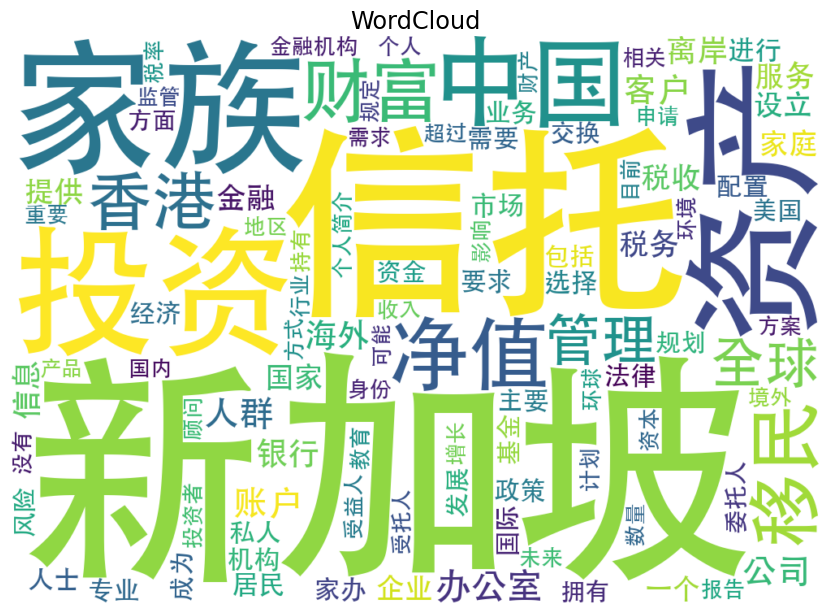
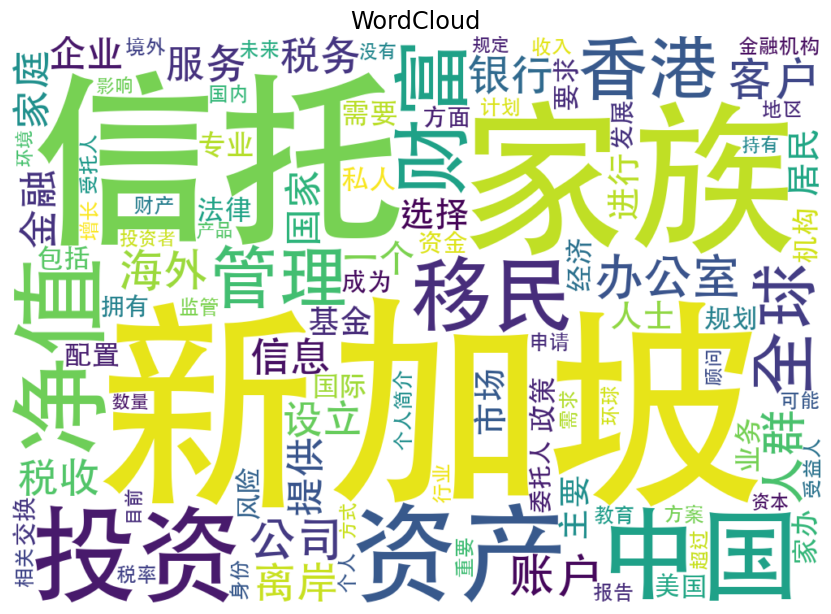
Change back to the top 100 network

diff --git a/_site/Market.html b/_site/Market.html
@@ -276,7 +276,7 @@ Why choose spider instead of survey
 <section id="implementation-building-the-spider" class="level2">
 <h2 class="anchored" data-anchor-id="implementation-building-the-spider">Implementation: Building the Spider</h2>
 <p>We implemented a Python-based web crawler using the SerpAPI platform to scrape real-time search results. The following code initializes the necessary libraries and parameters used in the process.</p>
-<div id="7954a680" class="cell" data-execution_count="2">
+<div id="ecf98cea" class="cell" data-execution_count="1">
 <details class="code-fold">
 <summary>Click to view code</summary>
 <div class="sourceCode cell-code" id="cb1"><pre class="sourceCode python code-with-copy"><code class="sourceCode python"><span id="cb1-1"><a href="#cb1-1" aria-hidden="true" tabindex="-1"></a><span class="im">import</span> requests</span>
@@ -298,7 +298,7 @@ Why choose spider instead of survey
 <section id="targeted-search-keywords" class="level2">
 <h2 class="anchored" data-anchor-id="targeted-search-keywords">Targeted Search Keywords</h2>
 <p>The keywords used by the crawler are carefully chosen to reflect real user concerns about wealth migration. These terms guide the spider to relevant discussions, articles, and posts.</p>
-<div id="2d6356fb" class="cell" data-execution_count="3">
+<div id="540fed03" class="cell" data-execution_count="2">
 <details class="code-fold">
 <summary>Click to view code</summary>
 <div class="sourceCode cell-code" id="cb2"><pre class="sourceCode python code-with-copy"><code class="sourceCode python"><span id="cb2-1"><a href="#cb2-1" aria-hidden="true" tabindex="-1"></a>keywords <span class="op">=</span> [</span>
@@ -313,7 +313,7 @@ Why choose spider instead of survey
 <span id="cb2-10"><a href="#cb2-10" aria-hidden="true" tabindex="-1"></a>]</span></code><button title="Copy to Clipboard" class="code-copy-button"><i class="bi"></i></button></pre></div>
 </details>
 </div>
-<div id="13390b51" class="cell" data-execution_count="4">
+<div id="6545be23" class="cell" data-execution_count="3">
 <details class="code-fold">
 <summary>Click to view code</summary>
 <div class="sourceCode cell-code" id="cb3"><pre class="sourceCode python code-with-copy"><code class="sourceCode python"><span id="cb3-1"><a href="#cb3-1" aria-hidden="true" tabindex="-1"></a><span class="kw">def</span> serpapi_search(query, api_key, num<span class="op">=</span><span class="dv">20</span>, start<span class="op">=</span><span class="dv">0</span>):</span>
@@ -352,7 +352,7 @@ Why choose spider instead of survey
 <span id="cb3-34"><a href="#cb3-34" aria-hidden="true" tabindex="-1"></a>    <span class="cf">return</span> extracted_results</span></code><button title="Copy to Clipboard" class="code-copy-button"><i class="bi"></i></button></pre></div>
 </details>
 </div>
-<div id="d751cba0" class="cell" data-execution_count="5">
+<div id="54e0104a" class="cell" data-execution_count="4">
 <details class="code-fold">
 <summary>Click to view code</summary>
 <div class="sourceCode cell-code" id="cb4"><pre class="sourceCode python code-with-copy"><code class="sourceCode python"><span id="cb4-1"><a href="#cb4-1" aria-hidden="true" tabindex="-1"></a><span class="kw">def</span> search_keyword_with_pagination(keyword, api_key, total_results<span class="op">=</span><span class="dv">20</span>):</span>
@@ -374,7 +374,7 @@ Why choose spider instead of survey
 <span id="cb4-17"><a href="#cb4-17" aria-hidden="true" tabindex="-1"></a>    <span class="cf">return</span> all_results</span></code><button title="Copy to Clipboard" class="code-copy-button"><i class="bi"></i></button></pre></div>
 </details>
 </div>
-<div id="80080f6a" class="cell" data-execution_count="6">
+<div id="b6ac34bf" class="cell" data-execution_count="5">
 <details class="code-fold">
 <summary>Click to view code</summary>
 <div class="sourceCode cell-code" id="cb5"><pre class="sourceCode python code-with-copy"><code class="sourceCode python"><span id="cb5-1"><a href="#cb5-1" aria-hidden="true" tabindex="-1"></a><span class="kw">def</span> main():</span>
@@ -407,7 +407,7 @@ Why choose spider instead of survey
 <section id="data-collection-process" class="level2">
 <h2 class="anchored" data-anchor-id="data-collection-process">Data Collection Process</h2>
 <p>The crawler iterates through each keyword, sends queries to SerpAPI, extracts content (including titles, URLs, and full texts), and saves them into a structured format for further processing. This automation ensures scalability and coverage.</p>
-<div id="79b0a5e5" class="cell" data-execution_count="7">
+<div id="16e30347" class="cell" data-execution_count="6">
 <details class="code-fold">
 <summary>Click to view code</summary>
 <div class="sourceCode cell-code" id="cb6"><pre class="sourceCode python code-with-copy"><code class="sourceCode python"><span id="cb6-1"><a href="#cb6-1" aria-hidden="true" tabindex="-1"></a><span class="cf">if</span> search_results:</span>
@@ -451,7 +451,7 @@ Why choose spider instead of survey
 <section id="data-transformation" class="level2">
 <h2 class="anchored" data-anchor-id="data-transformation">Data Transformation</h2>
 <p>Once raw JSON responses are collected, we convert them into a tabular format using <code>pandas</code>. This step prepares the dataset for text cleaning and analysis.</p>
-<div id="13eb1ace" class="cell" data-execution_count="8">
+<div id="5ebc373a" class="cell" data-execution_count="7">
 <details class="code-fold">
 <summary>Click to view code</summary>
 <div class="sourceCode cell-code" id="cb7"><pre class="sourceCode python code-with-copy"><code class="sourceCode python"><span id="cb7-1"><a href="#cb7-1" aria-hidden="true" tabindex="-1"></a><span class="im">from</span> bs4 <span class="im">import</span> BeautifulSoup</span>
@@ -490,7 +490,7 @@ Why choose spider instead of survey
 </section>
 <section id="data-clean" class="level2">
 <h2 class="anchored" data-anchor-id="data-clean"><strong>1.3 Data Clean</strong></h2>
-<div id="d5a90fa7" class="cell" data-execution_count="9">
+<div id="fc9c1de6" class="cell" data-execution_count="8">
 <details class="code-fold">
 <summary>Click to view code</summary>
 <div class="sourceCode cell-code" id="cb8"><pre class="sourceCode python code-with-copy"><code class="sourceCode python"><span id="cb8-1"><a href="#cb8-1" aria-hidden="true" tabindex="-1"></a><span class="co"># 输入输出路径</span></span>
@@ -531,7 +531,7 @@ Why choose spider instead of survey
 <pre><code>清洗完成，已保存为：/Applications/SMU/Great Eastern/Personal Project/RFM Project/Dataset/search_results_cleaned.xlsx</code></pre>
 </div>
 </div>
-<div id="80722ba9" class="cell" data-execution_count="10">
+<div id="cca8ec88" class="cell" data-execution_count="9">
 <details class="code-fold">
 <summary>Click to view code</summary>
 <div class="sourceCode cell-code" id="cb10"><pre class="sourceCode python code-with-copy"><code class="sourceCode python"><span id="cb10-1"><a href="#cb10-1" aria-hidden="true" tabindex="-1"></a><span class="co"># 读取 Excel 文件</span></span>
@@ -596,7 +596,7 @@ invalid             0
 dtype: int64</code></pre>
 </div>
 </div>
-<div id="a3b3e205" class="cell" data-execution_count="11">
+<div id="724ea60c" class="cell" data-execution_count="10">
 <details class="code-fold">
 <summary>Click to view code</summary>
 <div class="sourceCode cell-code" id="cb12"><pre class="sourceCode python code-with-copy"><code class="sourceCode python"><span id="cb12-1"><a href="#cb12-1" aria-hidden="true" tabindex="-1"></a>df_cleaned <span class="op">=</span> df[<span class="op">~</span>df[<span class="st">"invalid"</span>] <span class="op">&amp;</span> df[<span class="st">"content"</span>].notna()].copy()</span>
@@ -607,7 +607,7 @@ dtype: int64</code></pre>
 <section id="text-cleaning" class="level2">
 <h2 class="anchored" data-anchor-id="text-cleaning">Text Cleaning</h2>
 <p>The raw text contains punctuation, redundant whitespace, and occasionally malformed encoding. We apply basic cleaning to ensure the corpus is suitable for keyword extraction and topic modeling.</p>
-<div id="83658e0c" class="cell" data-execution_count="12">
+<div id="9c639d01" class="cell" data-execution_count="11">
 <details class="code-fold">
 <summary>Click to view code</summary>
 <div class="sourceCode cell-code" id="cb13"><pre class="sourceCode python code-with-copy"><code class="sourceCode python"><span id="cb13-1"><a href="#cb13-1" aria-hidden="true" tabindex="-1"></a><span class="im">import</span> re</span>
@@ -681,7 +681,7 @@ dtype: int64</code></pre>
 <section id="visualizing-high-frequency-terms" class="level2">
 <h2 class="anchored" data-anchor-id="visualizing-high-frequency-terms">Visualizing High-Frequency Terms</h2>
 <p>The following word cloud ord highlights the most common terms across all retrieved content, offering a visual snapshot of what matters most to the audience.</p>
-<div id="fbbca02e" class="cell" data-execution_count="13">
+<div id="4c628010" class="cell" data-execution_count="12">
 <details class="code-fold">
 <summary>Click to view code</summary>
 <div class="sourceCode cell-code" id="cb15"><pre class="sourceCode python code-with-copy"><code class="sourceCode python"><span id="cb15-1"><a href="#cb15-1" aria-hidden="true" tabindex="-1"></a><span class="im">from</span> wordcloud <span class="im">import</span> WordCloud</span>
@@ -739,7 +739,7 @@ Insights from the Word Cloud
 </section>
 <section id="sentiment-analysis" class="level2">
 <h2 class="anchored" data-anchor-id="sentiment-analysis"><strong>2.2 Sentiment Analysis</strong></h2>
-<div id="66c477e9" class="cell" data-execution_count="14">
+<div id="7ad69b15" class="cell" data-execution_count="13">
 <details class="code-fold">
 <summary>Click to view code</summary>
 <div class="sourceCode cell-code" id="cb16"><pre class="sourceCode python code-with-copy"><code class="sourceCode python"><span id="cb16-1"><a href="#cb16-1" aria-hidden="true" tabindex="-1"></a><span class="im">from</span> snownlp <span class="im">import</span> SnowNLP</span>
@@ -786,7 +786,7 @@ Negative     5
 Name: count, dtype: int64</code></pre>
 </div>
 </div>
-<div id="c4fc5138" class="cell" data-execution_count="15">
+<div id="dd6e1c73" class="cell" data-execution_count="14">
 <details class="code-fold">
 <summary>Click to view code</summary>
 <div class="sourceCode cell-code" id="cb18"><pre class="sourceCode python code-with-copy"><code class="sourceCode python"><span id="cb18-1"><a href="#cb18-1" aria-hidden="true" tabindex="-1"></a><span class="im">import</span> matplotlib.pyplot <span class="im">as</span> plt</span>
@@ -794,24 +794,39 @@ Name: count, dtype: int64</code></pre>
 <span id="cb18-3"><a href="#cb18-3" aria-hidden="true" tabindex="-1"></a><span class="co"># Count sentiment</span></span>
 <span id="cb18-4"><a href="#cb18-4" aria-hidden="true" tabindex="-1"></a>sentiment_counts <span class="op">=</span> df[<span class="st">"sentiment_label"</span>].value_counts()</span>
 <span id="cb18-5"><a href="#cb18-5" aria-hidden="true" tabindex="-1"></a></span>
-<span id="cb18-6"><a href="#cb18-6" aria-hidden="true" tabindex="-1"></a><span class="co"># 设置颜色和标签顺序</span></span>
+<span id="cb18-6"><a href="#cb18-6" aria-hidden="true" tabindex="-1"></a><span class="co"># Set labels and colors</span></span>
 <span id="cb18-7"><a href="#cb18-7" aria-hidden="true" tabindex="-1"></a>labels <span class="op">=</span> sentiment_counts.index.tolist()</span>
-<span id="cb18-8"><a href="#cb18-8" aria-hidden="true" tabindex="-1"></a>colors <span class="op">=</span> [<span class="st">'green'</span> <span class="cf">if</span> label <span class="op">==</span> <span class="st">'Positive'</span> <span class="cf">else</span> <span class="st">'red'</span> <span class="cf">for</span> label <span class="kw">in</span> labels]</span>
+<span id="cb18-8"><a href="#cb18-8" aria-hidden="true" tabindex="-1"></a>colors <span class="op">=</span> [<span class="st">'#4CAF50'</span> <span class="cf">if</span> label <span class="op">==</span> <span class="st">'Positive'</span> <span class="cf">else</span> <span class="st">'#F44336'</span> <span class="cf">for</span> label <span class="kw">in</span> labels]  </span>
 <span id="cb18-9"><a href="#cb18-9" aria-hidden="true" tabindex="-1"></a></span>
-<span id="cb18-10"><a href="#cb18-10" aria-hidden="true" tabindex="-1"></a><span class="co"># 绘图</span></span>
-<span id="cb18-11"><a href="#cb18-11" aria-hidden="true" tabindex="-1"></a>plt.figure(figsize<span class="op">=</span>(<span class="dv">6</span>,<span class="dv">6</span>))</span>
-<span id="cb18-12"><a href="#cb18-12" aria-hidden="true" tabindex="-1"></a>plt.pie(</span>
-<span id="cb18-13"><a href="#cb18-13" aria-hidden="true" tabindex="-1"></a>    sentiment_counts,</span>
-<span id="cb18-14"><a href="#cb18-14" aria-hidden="true" tabindex="-1"></a>    labels<span class="op">=</span>labels,</span>
-<span id="cb18-15"><a href="#cb18-15" aria-hidden="true" tabindex="-1"></a>    autopct<span class="op">=</span><span class="st">'</span><span class="sc">%1.1f%%</span><span class="st">'</span>,</span>
-<span id="cb18-16"><a href="#cb18-16" aria-hidden="true" tabindex="-1"></a>    startangle<span class="op">=</span><span class="dv">140</span>,</span>
-<span id="cb18-17"><a href="#cb18-17" aria-hidden="true" tabindex="-1"></a>    colors<span class="op">=</span>colors,</span>
-<span id="cb18-18"><a href="#cb18-18" aria-hidden="true" tabindex="-1"></a>    textprops<span class="op">=</span>{<span class="st">'fontsize'</span>: <span class="dv">14</span>}</span>
-<span id="cb18-19"><a href="#cb18-19" aria-hidden="true" tabindex="-1"></a>)</span>
-<span id="cb18-20"><a href="#cb18-20" aria-hidden="true" tabindex="-1"></a>plt.title(<span class="st">"Sentiment Composition"</span>, fontsize<span class="op">=</span><span class="dv">16</span>)</span>
-<span id="cb18-21"><a href="#cb18-21" aria-hidden="true" tabindex="-1"></a>plt.tight_layout()</span>
-<span id="cb18-22"><a href="#cb18-22" aria-hidden="true" tabindex="-1"></a>plt.axis(<span class="st">'equal'</span>)  </span>
-<span id="cb18-23"><a href="#cb18-23" aria-hidden="true" tabindex="-1"></a>plt.show()</span></code><button title="Copy to Clipboard" class="code-copy-button"><i class="bi"></i></button></pre></div>
+<span id="cb18-10"><a href="#cb18-10" aria-hidden="true" tabindex="-1"></a><span class="co"># Define explode to slightly offset each slice</span></span>
+<span id="cb18-11"><a href="#cb18-11" aria-hidden="true" tabindex="-1"></a>explode <span class="op">=</span> [<span class="fl">0.05</span>] <span class="op">*</span> <span class="bu">len</span>(labels)</span>
+<span id="cb18-12"><a href="#cb18-12" aria-hidden="true" tabindex="-1"></a></span>
+<span id="cb18-13"><a href="#cb18-13" aria-hidden="true" tabindex="-1"></a><span class="co"># Create figure</span></span>
+<span id="cb18-14"><a href="#cb18-14" aria-hidden="true" tabindex="-1"></a>fig, ax <span class="op">=</span> plt.subplots(figsize<span class="op">=</span>(<span class="dv">7</span>, <span class="dv">7</span>), facecolor<span class="op">=</span><span class="st">'white'</span>)</span>
+<span id="cb18-15"><a href="#cb18-15" aria-hidden="true" tabindex="-1"></a>wedges, texts, autotexts <span class="op">=</span> ax.pie(</span>
+<span id="cb18-16"><a href="#cb18-16" aria-hidden="true" tabindex="-1"></a>    sentiment_counts,</span>
+<span id="cb18-17"><a href="#cb18-17" aria-hidden="true" tabindex="-1"></a>    labels<span class="op">=</span>labels,</span>
+<span id="cb18-18"><a href="#cb18-18" aria-hidden="true" tabindex="-1"></a>    autopct<span class="op">=</span><span class="st">'</span><span class="sc">%1.1f%%</span><span class="st">'</span>,</span>
+<span id="cb18-19"><a href="#cb18-19" aria-hidden="true" tabindex="-1"></a>    startangle<span class="op">=</span><span class="dv">140</span>,</span>
+<span id="cb18-20"><a href="#cb18-20" aria-hidden="true" tabindex="-1"></a>    colors<span class="op">=</span>colors,</span>
+<span id="cb18-21"><a href="#cb18-21" aria-hidden="true" tabindex="-1"></a>    explode<span class="op">=</span>explode,</span>
+<span id="cb18-22"><a href="#cb18-22" aria-hidden="true" tabindex="-1"></a>    wedgeprops<span class="op">=</span>{<span class="st">'edgecolor'</span>: <span class="st">'white'</span>, <span class="st">'linewidth'</span>: <span class="dv">2</span>},</span>
+<span id="cb18-23"><a href="#cb18-23" aria-hidden="true" tabindex="-1"></a>    textprops<span class="op">=</span>{<span class="st">'fontsize'</span>: <span class="dv">13</span>}</span>
+<span id="cb18-24"><a href="#cb18-24" aria-hidden="true" tabindex="-1"></a>)</span>
+<span id="cb18-25"><a href="#cb18-25" aria-hidden="true" tabindex="-1"></a></span>
+<span id="cb18-26"><a href="#cb18-26" aria-hidden="true" tabindex="-1"></a><span class="co"># Labels and percentages</span></span>
+<span id="cb18-27"><a href="#cb18-27" aria-hidden="true" tabindex="-1"></a><span class="cf">for</span> text <span class="kw">in</span> autotexts:</span>
+<span id="cb18-28"><a href="#cb18-28" aria-hidden="true" tabindex="-1"></a>    text.set_color(<span class="st">'white'</span>)</span>
+<span id="cb18-29"><a href="#cb18-29" aria-hidden="true" tabindex="-1"></a>    text.set_fontweight(<span class="st">'bold'</span>)</span>
+<span id="cb18-30"><a href="#cb18-30" aria-hidden="true" tabindex="-1"></a></span>
+<span id="cb18-31"><a href="#cb18-31" aria-hidden="true" tabindex="-1"></a><span class="co"># Add title with padding</span></span>
+<span id="cb18-32"><a href="#cb18-32" aria-hidden="true" tabindex="-1"></a>plt.title(<span class="st">"Sentiment Composition"</span>, fontsize<span class="op">=</span><span class="dv">18</span>, weight<span class="op">=</span><span class="st">'bold'</span>, pad<span class="op">=</span><span class="dv">20</span>)</span>
+<span id="cb18-33"><a href="#cb18-33" aria-hidden="true" tabindex="-1"></a></span>
+<span id="cb18-34"><a href="#cb18-34" aria-hidden="true" tabindex="-1"></a><span class="co"># Equal aspect ratio ensures pie is circular</span></span>
+<span id="cb18-35"><a href="#cb18-35" aria-hidden="true" tabindex="-1"></a>ax.axis(<span class="st">'equal'</span>)</span>
+<span id="cb18-36"><a href="#cb18-36" aria-hidden="true" tabindex="-1"></a></span>
+<span id="cb18-37"><a href="#cb18-37" aria-hidden="true" tabindex="-1"></a>plt.tight_layout()</span>
+<span id="cb18-38"><a href="#cb18-38" aria-hidden="true" tabindex="-1"></a>plt.show()</span></code><button title="Copy to Clipboard" class="code-copy-button"><i class="bi"></i></button></pre></div>
 </details>
 <div class="cell-output cell-output-display">
 <div>
@@ -840,12 +855,12 @@ Insights from Sentiment Analysis
 <p><strong>Conclusion</strong>: These findings suggest that while Singapore is generally viewed favorably, there remains a need to <strong>address misconceptions</strong> and <strong>reduce friction in communication</strong> when engaging with HNW prospects.</p>
 </div>
 </div>
-<div id="82d927de" class="cell" data-execution_count="16">
+<div id="cf6d818f" class="cell" data-execution_count="15">
 <details class="code-fold">
 <summary>Click to view code</summary>
 <div class="sourceCode cell-code" id="cb19"><pre class="sourceCode python code-with-copy"><code class="sourceCode python"><span id="cb19-1"><a href="#cb19-1" aria-hidden="true" tabindex="-1"></a><span class="im">import</span> matplotlib.pyplot <span class="im">as</span> plt</span>
 <span id="cb19-2"><a href="#cb19-2" aria-hidden="true" tabindex="-1"></a></span>
-<span id="cb19-3"><a href="#cb19-3" aria-hidden="true" tabindex="-1"></a>plt.rcParams[<span class="st">'font.family'</span>] <span class="op">=</span> <span class="st">'Arial Unicode MS'</span>  <span class="co"># 更通用的中英混排字体</span></span>
+<span id="cb19-3"><a href="#cb19-3" aria-hidden="true" tabindex="-1"></a>plt.rcParams[<span class="st">'font.family'</span>] <span class="op">=</span> <span class="st">'Arial Unicode MS'</span>  </span>
 <span id="cb19-4"><a href="#cb19-4" aria-hidden="true" tabindex="-1"></a>plt.rcParams[<span class="st">'axes.unicode_minus'</span>] <span class="op">=</span> <span class="va">False</span></span>
 <span id="cb19-5"><a href="#cb19-5" aria-hidden="true" tabindex="-1"></a></span>
 <span id="cb19-6"><a href="#cb19-6" aria-hidden="true" tabindex="-1"></a><span class="co"># 分组：统计每个 keyword 下的正负面数量</span></span>
@@ -912,7 +927,7 @@ Next Step: Deep Dive into Negative Sentiments
 </section>
 <section id="network-analysis" class="level2">
 <h2 class="anchored" data-anchor-id="network-analysis"><strong>2.3 Network Analysis</strong></h2>
-<div id="0afa694e" class="cell" data-execution_count="17">
+<div id="498bd858" class="cell" data-execution_count="16">
 <details class="code-fold">
 <summary>Click to view code</summary>
 <div class="sourceCode cell-code" id="cb21"><pre class="sourceCode python code-with-copy"><code class="sourceCode python"><span id="cb21-1"><a href="#cb21-1" aria-hidden="true" tabindex="-1"></a><span class="im">from</span> itertools <span class="im">import</span> combinations</span>
@@ -932,7 +947,7 @@ Next Step: Deep Dive into Negative Sentiments
 <span id="cb21-15"><a href="#cb21-15" aria-hidden="true" tabindex="-1"></a>            keyword_sentences.append(word_list)</span></code><button title="Copy to Clipboard" class="code-copy-button"><i class="bi"></i></button></pre></div>
 </details>
 </div>
-<div id="f799e916" class="cell" data-execution_count="18">
+<div id="6e1b57a7" class="cell" data-execution_count="17">
 <details class="code-fold">
 <summary>Click to view code</summary>
 <div class="sourceCode cell-code" id="cb22"><pre class="sourceCode python code-with-copy"><code class="sourceCode python"><span id="cb22-1"><a href="#cb22-1" aria-hidden="true" tabindex="-1"></a>top_100_words <span class="op">=</span> <span class="bu">set</span>(df_freq[<span class="st">"Word"</span>])</span>
@@ -945,7 +960,7 @@ Next Step: Deep Dive into Negative Sentiments
 <span id="cb22-8"><a href="#cb22-8" aria-hidden="true" tabindex="-1"></a>        co_occurrence[<span class="bu">tuple</span>(<span class="bu">sorted</span>(pair))] <span class="op">+=</span> <span class="dv">1</span></span></code><button title="Copy to Clipboard" class="code-copy-button"><i class="bi"></i></button></pre></div>
 </details>
 </div>
-<div id="02556444" class="cell" data-execution_count="19">
+<div id="3da88f30" class="cell" data-execution_count="18">
 <details class="code-fold">
 <summary>Click to view code</summary>
 <div class="sourceCode cell-code" id="cb23"><pre class="sourceCode python code-with-copy"><code class="sourceCode python"><span id="cb23-1"><a href="#cb23-1" aria-hidden="true" tabindex="-1"></a><span class="im">import</span> matplotlib.font_manager <span class="im">as</span> fm</span>
@@ -954,37 +969,37 @@ Next Step: Deep Dive into Negative Sentiments
 <span id="cb23-4"><a href="#cb23-4" aria-hidden="true" tabindex="-1"></a>        <span class="bu">print</span>(font)</span></code><button title="Copy to Clipboard" class="code-copy-button"><i class="bi"></i></button></pre></div>
 </details>
 <div class="cell-output cell-output-stdout">
-<pre><code>/System/Library/Fonts/Supplemental/Arial.ttf
-/System/Library/Fonts/ArialHB.ttc
-/System/Library/Fonts/Supplemental/Arial Bold.ttf
-/System/Library/Fonts/Supplemental/Arial Bold Italic.ttf
-/System/Library/Fonts/Supplemental/Arial Rounded Bold.ttf
-/Library/Fonts/Arial Unicode.ttf
-/System/Library/Fonts/Supplemental/Arial Unicode.ttf
-/System/Library/Fonts/PingFang.ttc
-/System/Library/Fonts/STHeiti Medium.ttc
-/System/Library/Fonts/Supplemental/Arial Black.ttf
-/System/Library/Fonts/Supplemental/Arial Narrow Bold Italic.ttf
-/System/Library/Fonts/Supplemental/Arial Narrow Bold.ttf
-/System/Library/Fonts/STHeiti Light.ttc
+<pre><code>/Library/Fonts/Arial Unicode.ttf
 /System/Library/Fonts/Supplemental/Arial Narrow.ttf
+/System/Library/Fonts/Supplemental/Arial.ttf
+/System/Library/Fonts/Supplemental/Arial Narrow Bold.ttf
+/System/Library/Fonts/Supplemental/Arial Italic.ttf
+/System/Library/Fonts/STHeiti Medium.ttc
+/System/Library/Fonts/PingFang.ttc
+/System/Library/Fonts/Supplemental/Arial Black.ttf
+/System/Library/Fonts/Supplemental/Arial Rounded Bold.ttf
+/System/Library/Fonts/Supplemental/Arial Bold Italic.ttf
+/System/Library/Fonts/Supplemental/Arial Unicode.ttf
 /System/Library/Fonts/Supplemental/Arial Narrow Italic.ttf
-/System/Library/Fonts/Supplemental/Arial Italic.ttf</code></pre>
+/System/Library/Fonts/STHeiti Light.ttc
+/System/Library/Fonts/Supplemental/Arial Bold.ttf
+/System/Library/Fonts/ArialHB.ttc
+/System/Library/Fonts/Supplemental/Arial Narrow Bold Italic.ttf</code></pre>
 </div>
 </div>
-<div id="7ed61b42" class="cell" data-execution_count="20">
+<div id="ff8f0f51" class="cell" data-execution_count="19">
 <details class="code-fold">
 <summary>Click to view code</summary>
 <div class="sourceCode cell-code" id="cb25"><pre class="sourceCode python code-with-copy"><code class="sourceCode python"><span id="cb25-1"><a href="#cb25-1" aria-hidden="true" tabindex="-1"></a><span class="im">import</span> matplotlib.pyplot <span class="im">as</span> plt</span>
 <span id="cb25-2"><a href="#cb25-2" aria-hidden="true" tabindex="-1"></a><span class="im">import</span> matplotlib.font_manager <span class="im">as</span> fm</span>
 <span id="cb25-3"><a href="#cb25-3" aria-hidden="true" tabindex="-1"></a><span class="im">import</span> networkx <span class="im">as</span> nx</span>
 <span id="cb25-4"><a href="#cb25-4" aria-hidden="true" tabindex="-1"></a></span>
-<span id="cb25-5"><a href="#cb25-5" aria-hidden="true" tabindex="-1"></a><span class="co"># 手动设置中文字体（可替换为你机器已有的其他中文字体路径）</span></span>
+<span id="cb25-5"><a href="#cb25-5" aria-hidden="true" tabindex="-1"></a><span class="co"># 手动设置中文字体</span></span>
 <span id="cb25-6"><a href="#cb25-6" aria-hidden="true" tabindex="-1"></a>my_font <span class="op">=</span> fm.FontProperties(fname<span class="op">=</span><span class="st">"/System/Library/Fonts/STHeiti Medium.ttc"</span>)</span>
 <span id="cb25-7"><a href="#cb25-7" aria-hidden="true" tabindex="-1"></a>plt.rcParams[<span class="st">'font.family'</span>] <span class="op">=</span> my_font.get_name()</span>
 <span id="cb25-8"><a href="#cb25-8" aria-hidden="true" tabindex="-1"></a>plt.rcParams[<span class="st">'axes.unicode_minus'</span>] <span class="op">=</span> <span class="va">False</span></span>
 <span id="cb25-9"><a href="#cb25-9" aria-hidden="true" tabindex="-1"></a></span>
-<span id="cb25-10"><a href="#cb25-10" aria-hidden="true" tabindex="-1"></a><span class="co"># 构建图（你需要已经准备好 co_occurrence 字典）</span></span>
+<span id="cb25-10"><a href="#cb25-10" aria-hidden="true" tabindex="-1"></a><span class="co"># 构建图</span></span>
 <span id="cb25-11"><a href="#cb25-11" aria-hidden="true" tabindex="-1"></a>G <span class="op">=</span> nx.Graph()</span>
 <span id="cb25-12"><a href="#cb25-12" aria-hidden="true" tabindex="-1"></a><span class="cf">for</span> (w1, w2), freq <span class="kw">in</span> co_occurrence.items():</span>
 <span id="cb25-13"><a href="#cb25-13" aria-hidden="true" tabindex="-1"></a>    <span class="cf">if</span> freq <span class="op">&gt;=</span> <span class="dv">3</span>:  <span class="co"># 设定共现阈值</span></span>
@@ -1029,7 +1044,7 @@ Insights from Co-occurrence Keyword Network
 <p><strong>Conclusion</strong>: These patterns demonstrate that Chinese HNWIs approach offshore wealth management as a <strong>multifaceted decision process</strong>. Singapore is appealing not for a single advantage, but for its ability to address <strong>multiple interconnected concerns</strong> simultaneously.</p>
 </div>
 </div>
-<div id="4b63b7b6" class="cell" data-execution_count="21">
+<div id="36ca0631" class="cell" data-execution_count="20">
 <details class="code-fold">
 <summary>Click to view code</summary>
 <div class="sourceCode cell-code" id="cb26"><pre class="sourceCode python code-with-copy"><code class="sourceCode python"><span id="cb26-1"><a href="#cb26-1" aria-hidden="true" tabindex="-1"></a><span class="co"># 计算节点的度中心性</span></span>
@@ -1051,13 +1066,13 @@ Insights from Co-occurrence Keyword Network
 公司: 1.000
 管理: 0.980
 净值: 0.970
-香港: 0.970
 中国: 0.970
+香港: 0.970
 进行: 0.970
-银行: 0.960</code></pre>
+财富: 0.960</code></pre>
 </div>
 </div>
-<div id="fbdbd875" class="cell" data-execution_count="22">
+<div id="560ee98c" class="cell" data-execution_count="21">
 <details class="code-fold">
 <summary>Click to view code</summary>
 <div class="sourceCode cell-code" id="cb28"><pre class="sourceCode python code-with-copy"><code class="sourceCode python"><span id="cb28-1"><a href="#cb28-1" aria-hidden="true" tabindex="-1"></a><span class="im">import</span> community <span class="im">as</span> community_louvain  <span class="co"># pip install python-louvain</span></span>
